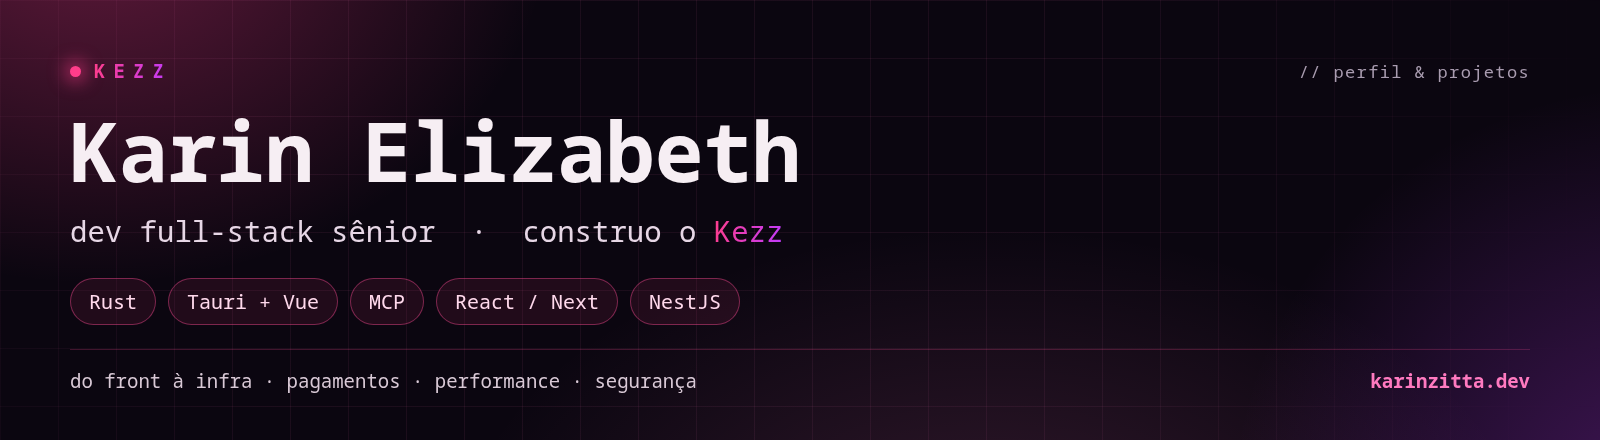
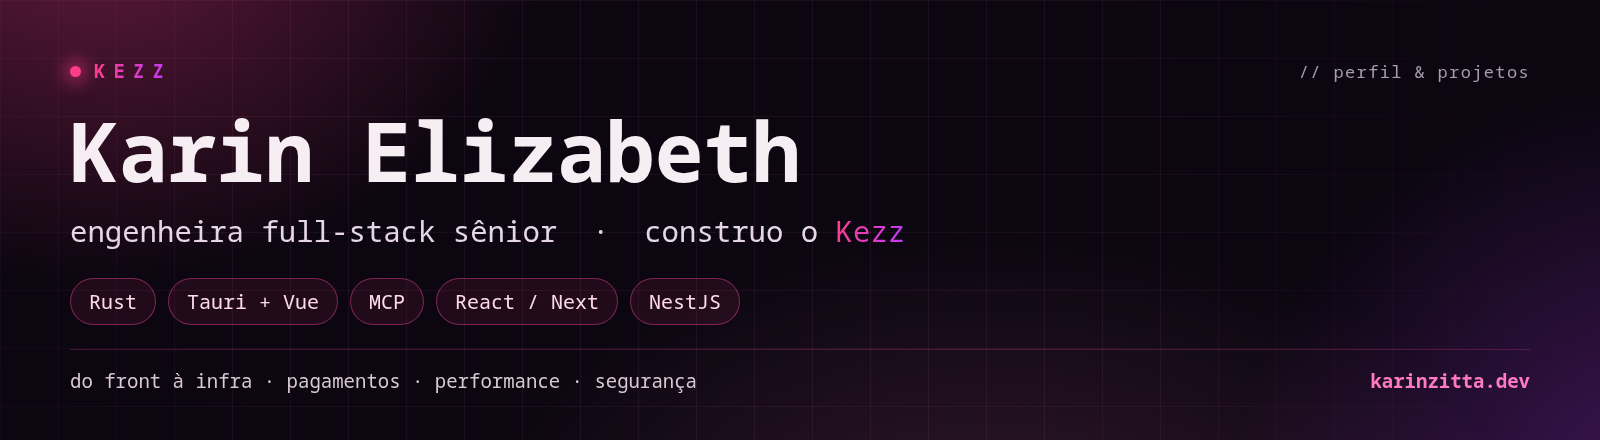
docs: update role to engenheira

Changed region(s): [[0.0312, 0.5023, 0.5625, 0.5614]]

diff --git a/README.md b/README.md
@@ -1,8 +1,8 @@
 <p align="center">
-  <img src="assets/banner.png" alt="Karin Elizabeth — dev full-stack sênior · construo o Kezz" width="100%">
+  <img src="assets/banner.png" alt="Karin Elizabeth — engenheira full-stack sênior · construo o Kezz" width="100%">
 </p>
 
-<h3 align="center">dev full-stack sênior · construo o <b>Kezz</b></h3>
+<h3 align="center">engenheira full-stack sênior · construo o <b>Kezz</b></h3>
 
 <p align="center">
   <a href="https://karinzitta.dev"><img src="https://img.shields.io/badge/portfolio-karinzitta.dev-ff3d8a?style=flat-square&labelColor=0b0610" alt="portfolio"></a>
